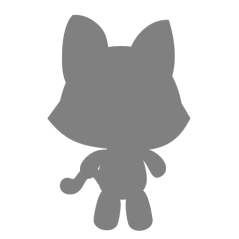
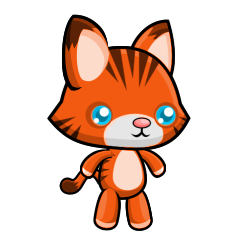
add skin to player

diff --git a/www/assets/js/game/menu.js b/www/assets/js/game/menu.js
@@ -5,6 +5,7 @@ class Menu {
         this.background = pgame.make.sprite(0, 0, 'splash_bg');
         this.background.width = pgame.width;
         this.background.height = pgame.height;
+        this.selectedCat = skin;
     }
 
     preload() {
@@ -12,117 +13,17 @@ class Menu {
     }
 
     create() {
-        let cats = [];
-        cats.push(pgame.add.sprite(0, 0, 'cat1'));
-        cats.push(pgame.add.sprite(0, 0, 'cat2'));
-        cats.push(pgame.add.sprite(0, 0, 'cat2'));
-        cats.push(pgame.add.sprite(0, 0, 'cat2'));
-        cats.push(pgame.add.sprite(0, 0, 'cat2'));
-        cats.push(pgame.add.sprite(0, 0, 'cat2'));
-
-        let totalCats = cats.length;
-        let prime = 0;
-        let animationSpeed = 200;
-
-        //initial setup; all cats on the right side; anchor set to mid;
-        cats.forEach(function (cat) {
-            cat.anchor.setTo(0.5, 0.5);
-            cat.x = pgame.width + 150;
-            cat.y = pgame.height / 2;
-            cat.inputEnabled = true;
-            cat.events.onInputDown.add(clickListener, this);
-        });
-
-        //initial position of cats on stage based on the selected cat
-        function setToPosition(prime) {
-            cats[prime].x = pgame.width / 2;
-
-            //check if there is another cat available to display on the right side; if yes then position it
-            if (prime<(totalCats-1)) {
-                cats[prime + 1].x = pgame.width / 2 + 67 + 75;
-                cats[prime + 1].scale.setTo(0.5,0.5);
-            }
-
-            //check if there is another cat available to display on the left side; if yes then position it
-            if (prime > 0) {
-                cats[prime - 1].x = pgame.width / 2 - 67 - 75;
-                cats[prime - 1].scale.setTo(0.5,0.5);
-            }
-        }
-
-        //set initial state
-        setToPosition(prime);
-
-        //predefined x positions for the 3 visible cards
-        let xleft = pgame.width / 2 - 67 - 75;
-        let xprime = pgame.width / 2;
-        let xright = pgame.width / 2 + 67 + 75;
-
-        //move to next cat
-        function nextCat() {
-            //move prime left
-            pgame.add.tween(cats[prime]).to( { x: xleft}, animationSpeed, null, true);
-            pgame.add.tween(cats[prime].scale).to( { x: 0.5 , y: 0.5}, animationSpeed, null, true);
-            //move right to prime
-            if (prime < 5) {
-                pgame.add.tween(cats[prime+1]).to( { x: xprime}, animationSpeed, null, true);
-                pgame.add.tween(cats[prime+1].scale).to( { x: 1 , y: 1}, animationSpeed, null, true);
-            }
-            //move new to right
-            if (prime < 4) {
-                cats[prime+2].x = pgame.width + 150;
-                cats[prime+2].scale.setTo(0.5,0.5);
-                pgame.add.tween(cats[prime+2]).to( { x: xright}, animationSpeed, null, true);
-            }
-            //move left out
-            if (prime>0) {
-                cats[prime-1].scale.setTo(0.5,0.5);
-                pgame.add.tween(cats[prime-1]).to( { x: -150}, animationSpeed, null, true);
-            }
-            prime++;
-        }
-
-        //move to previous cat
-        function previousCat() {
-            //move prime left
-            pgame.add.tween(cats[prime]).to( { x: xright}, animationSpeed, null, true);
-            pgame.add.tween(cats[prime].scale).to( { x: 0.5 , y: 0.5}, animationSpeed, null, true);
-            //move left to prime
-            if (prime > 0 ) {
-                pgame.add.tween(cats[prime-1]).to( { x: xprime}, animationSpeed, null, true);
-                pgame.add.tween(cats[prime-1].scale).to( { x: 1 , y: 1}, animationSpeed, null, true);
-            }
-            //move new to left
-            if (prime > 1) {
-                cats[prime-2].x = - 150;
-                cats[prime-2].scale.setTo(0.5,0.5);
-                pgame.add.tween(cats[prime-2]).to( { x: xleft}, animationSpeed, null, true);
-            }
-            //move right out
-            if (prime < (totalCats-1)) {
-                cats[prime+1].scale.setTo(0.5,0.5);
-                pgame.add.tween(cats[prime+1]).to( { x: pgame.width + 150}, animationSpeed, null, true);
-            }
-            prime--;
-        }
-
-        //click on cat listener
-        function clickListener (el) {
-            let clickedPos = cats.indexOf(el);
-            if (clickedPos > prime) {
-                //move to left
-                nextCat();
-            } else if (clickedPos < prime) {
-                //move to right
-                previousCat();
-            }
-        }
+        this.initCarousel();
 
         this.locateButton('Ввести имя', pgame.height / 2.0 + 200, function () {
             userName = prompt('Введите своё имя', 'Гость');
         });
 
         this.locateButton('Играть', pgame.height / 2.0 + 260, function () {
+            if (this.selectedCat === 'cat_lock') {
+                return;
+            }
+            skin = this.selectedCat;
             pgame.state.start('Game');
         });
     }
@@ -150,5 +51,114 @@ class Menu {
         button.events.onInputUp.add(callback, this);
         button.events.onInputOver.add(onOver, this);
         button.events.onInputOut.add(onOut, this);
+    }
+
+    initCarousel() {
+        let self = this;
+        let cats = [];
+        cats.push(pgame.add.sprite(0, 0, 'cat_gray'));
+        cats.push(pgame.add.sprite(0, 0, 'cat_ginger'));
+        cats.push(pgame.add.sprite(0, 0, 'cat_lock'));
+        cats.push(pgame.add.sprite(0, 0, 'cat_lock'));
+        cats.push(pgame.add.sprite(0, 0, 'cat_lock'));
+
+        let totalCats = cats.length;
+        let prime = 0;
+        let animationSpeed = 200;
+
+        //initial setup; all cats on the right side; anchor set to mid;
+        cats.forEach(function (cat) {
+            cat.anchor.setTo(0.5, 0.5);
+            cat.x = pgame.width + 150;
+            cat.y = pgame.height / 2;
+            cat.inputEnabled = true;
+            cat.events.onInputDown.add(clickListener, this);
+        });
+
+        //initial position of cats on stage based on the selected cat-gray
+        function setToPosition(prime) {
+            cats[prime].x = pgame.width / 2;
+
+            //check if there is another cat-gray available to display on the right side; if yes then position it
+            if (prime<(totalCats-1)) {
+                cats[prime + 1].x = pgame.width / 2 + 67 + 75;
+                cats[prime + 1].scale.setTo(0.5,0.5);
+            }
+
+            //check if there is another cat-gray available to display on the left side; if yes then position it
+            if (prime > 0) {
+                cats[prime - 1].x = pgame.width / 2 - 67 - 75;
+                cats[prime - 1].scale.setTo(0.5,0.5);
+            }
+        }
+
+        //set initial state
+        setToPosition(prime);
+
+        //predefined x positions for the 3 visible cards
+        let xleft = pgame.width / 2 - 67 - 75;
+        let xprime = pgame.width / 2;
+        let xright = pgame.width / 2 + 67 + 75;
+
+        //move to next cat-gray
+        function nextCat() {
+            //move prime left
+            pgame.add.tween(cats[prime]).to( { x: xleft}, animationSpeed, null, true);
+            pgame.add.tween(cats[prime].scale).to( { x: 0.5 , y: 0.5}, animationSpeed, null, true);
+            //move right to prime
+            if (prime < totalCats-1) {
+                pgame.add.tween(cats[prime+1]).to( { x: xprime}, animationSpeed, null, true);
+                pgame.add.tween(cats[prime+1].scale).to( { x: 1 , y: 1}, animationSpeed, null, true);
+            }
+            //move new to right
+            if (prime < totalCats-2) {
+                cats[prime+2].x = pgame.width + 150;
+                cats[prime+2].scale.setTo(0.5,0.5);
+                pgame.add.tween(cats[prime+2]).to( { x: xright}, animationSpeed, null, true);
+            }
+            //move left out
+            if (prime>0) {
+                cats[prime-1].scale.setTo(0.5,0.5);
+                pgame.add.tween(cats[prime-1]).to( { x: -150}, animationSpeed, null, true);
+            }
+            prime++;
+        }
+
+        //move to previous cat-gray
+        function previousCat() {
+            //move prime left
+            pgame.add.tween(cats[prime]).to( { x: xright}, animationSpeed, null, true);
+            pgame.add.tween(cats[prime].scale).to( { x: 0.5 , y: 0.5}, animationSpeed, null, true);
+            //move left to prime
+            if (prime > 0 ) {
+                pgame.add.tween(cats[prime-1]).to( { x: xprime}, animationSpeed, null, true);
+                pgame.add.tween(cats[prime-1].scale).to( { x: 1 , y: 1}, animationSpeed, null, true);
+            }
+            //move new to left
+            if (prime > 1) {
+                cats[prime-2].x = - 150;
+                cats[prime-2].scale.setTo(0.5,0.5);
+                pgame.add.tween(cats[prime-2]).to( { x: xleft}, animationSpeed, null, true);
+            }
+            //move right out
+            if (prime < (totalCats-1)) {
+                cats[prime+1].scale.setTo(0.5,0.5);
+                pgame.add.tween(cats[prime+1]).to( { x: pgame.width + 150}, animationSpeed, null, true);
+            }
+            prime--;
+        }
+
+        //click on cat-gray listener
+        function clickListener (el) {
+            self.selectedCat = el.key;
+            let clickedPos = cats.indexOf(el);
+            if (clickedPos > prime) {
+                //move to left
+                nextCat();
+            } else if (clickedPos < prime) {
+                //move to right
+                previousCat();
+            }
+        }
     }
 }

diff --git a/www/assets/js/game/splash.js b/www/assets/js/game/splash.js
@@ -17,7 +17,6 @@ class Splash {
         pgame.add.existing(this.title);
 
         pgame.load.script('SocketIO', 'assets/js/lib/socket-io.min.js');
-
         pgame.load.script('menu', 'assets/js/game/menu.js');
         pgame.load.script('game', 'assets/js/game/game.js');
         pgame.load.script('player', 'assets/js/game/player.js');
@@ -30,10 +29,12 @@ class Splash {
         pgame.load.image('gem4', 'assets/images/gemRed.png');
         pgame.load.image('gem5', 'assets/images/upg_dagger.png');
 
-        pgame.load.image('cat1','assets/images/cat1.png');
-        pgame.load.image('cat2','assets/images/cat2.png');
+        pgame.load.image('cat_gray','assets/images/cat1.png');
+        pgame.load.image('cat_ginger','assets/images/cat2.png');
+        pgame.load.image('cat_lock','assets/images/cat-lock.png');
 
-        pgame.load.spritesheet('catstay', '/assets/images/sprites/cat/stay.png', 273, 237, 17);
+        pgame.load.spritesheet('cat_gray_stay', '/assets/images/sprites/cat-gray/stay.png', 273, 237, 17);
+        pgame.load.spritesheet('cat_ginger_stay', '/assets/images/sprites/cat-ginger/stay.png', 273, 237, 17);
     }
 
     create() {

diff --git a/www/assets/js/game/player.js b/www/assets/js/game/player.js
@@ -10,13 +10,11 @@ class Player {
         this.catStaySprite  = null;
     }
 
-    preload() {
-       // this.game.load.spritesheet('catstay', '/assets/images/sprites/cat/stay.png', 121, 121, 10);
-    }
+    preload() {}
 
     create(x, y, invertSprite) {
         invertSprite = invertSprite || false;
-        this.catStaySprite  = this.game.add.sprite(x, y, 'catstay');
+        this.catStaySprite  = this.game.add.sprite(x, y, 'cat_gray_stay');
         if (invertSprite) {
             console.log('enemysprite')
             this.catStaySprite.scale.x = -1;
@@ -26,7 +24,7 @@ class Player {
         //this.catStaySprite.scale.y *= -1;
 
 
-        this.anim = this.catStaySprite.animations.add('catstay');
+        this.anim = this.catStaySprite.animations.add('cat_gray_stay');
 
         this.anim.onStart.add(this.animationStarted, this);
         this.anim.onLoop.add(this.animationLooped, this);

diff --git a/www/assets/js/game/game.js b/www/assets/js/game/game.js
@@ -16,7 +16,10 @@ class Game {
     create() {
         this.initNetwork();
 
-        this.socket.emit('joinNewPlayer', userName);
+        this.socket.emit('joinNewPlayer', JSON.stringify({
+            name: userName,
+            skin: skin
+        }));
         log('Ожидаем второго игрока');
     }
 
@@ -31,9 +34,11 @@ class Game {
         let state = JSON.parse(stateJson);
         let currentPlayer = state.players[this.socket.id];
 
+        console.log(state.players);
+
         if (currentPlayer === undefined) {
             log('Not found current player');
-            return
+            return;
         }
 
         this.player = new Player(pgame, currentPlayer.id, currentPlayer.name);

diff --git a/www/assets/js/game/enemy.js b/www/assets/js/game/enemy.js
@@ -9,12 +9,12 @@ class Enemy {
 
     create(x, y, invertSprite) {
         invertSprite = invertSprite || false;
-        this.catStaySprite = this.game.add.sprite(x, y, 'catstay');
+        this.catStaySprite = this.game.add.sprite(x, y, 'cat_gray_stay');
         if (invertSprite) {
             this.catStaySprite.scale.x = -1;
         }
 
-        this.anim = this.catStaySprite.animations.add('catstay');
+        this.anim = this.catStaySprite.animations.add('cat_gray_stay');
         this.anim.onComplete.add(this.animationStopped, this);
         this.anim.play(10, true);
     }

diff --git a/www/assets/js/main.js b/www/assets/js/main.js
@@ -2,6 +2,7 @@
 
 let pgame;
 let userName = 'Гость';
+let skin = 'cat_gray';
 
 class Main {
     constructor(width, height, contanerName) {

diff --git a/game.go b/game.go
@@ -49,7 +49,7 @@ func NewGame(server *socketio.Server) *Game {
 }
 
 func (self *Game) AddPlayer(so socketio.Socket) {
-	so.On("joinNewPlayer", func(playerName string) {
+	so.On("joinNewPlayer", func(msg string) {
 		log.Println("joinNewPlayer")
 
 		if len(self.players) == maxCountPlayers {
@@ -57,7 +57,18 @@ func (self *Game) AddPlayer(so socketio.Socket) {
 			return
 		}
 
-		player := NewPlayer(so.Id(), playerName)
+		newPlayer := struct {
+			Name string `json:"name"`
+			Skin string `json:"skin"`
+		}{}
+
+		err := json.Unmarshal([]byte(msg), &newPlayer)
+		if err != nil {
+			log.Println(err)
+			return
+		}
+
+		player := NewPlayer(so.Id(), newPlayer.Name, newPlayer.Skin)
 		log.Println("Set player id: ", so.Id())
 
 		func() {

diff --git a/player.go b/player.go
@@ -6,12 +6,14 @@ type Player struct {
 	Id     string `json:"id"`
 	Name   string `json:"name"`
 	Health int    `json:"health"`
+	Skin   string `json:"skin"`
 }
 
-func NewPlayer(socketId string, playerName string) (player *Player) {
+func NewPlayer(socketId string, playerName string, skin string) (player *Player) {
 	player = &Player{
 		Id:     socketId,
 		Name:   playerName,
+		Skin:   skin,
 		Health: Health,
 	}
 
